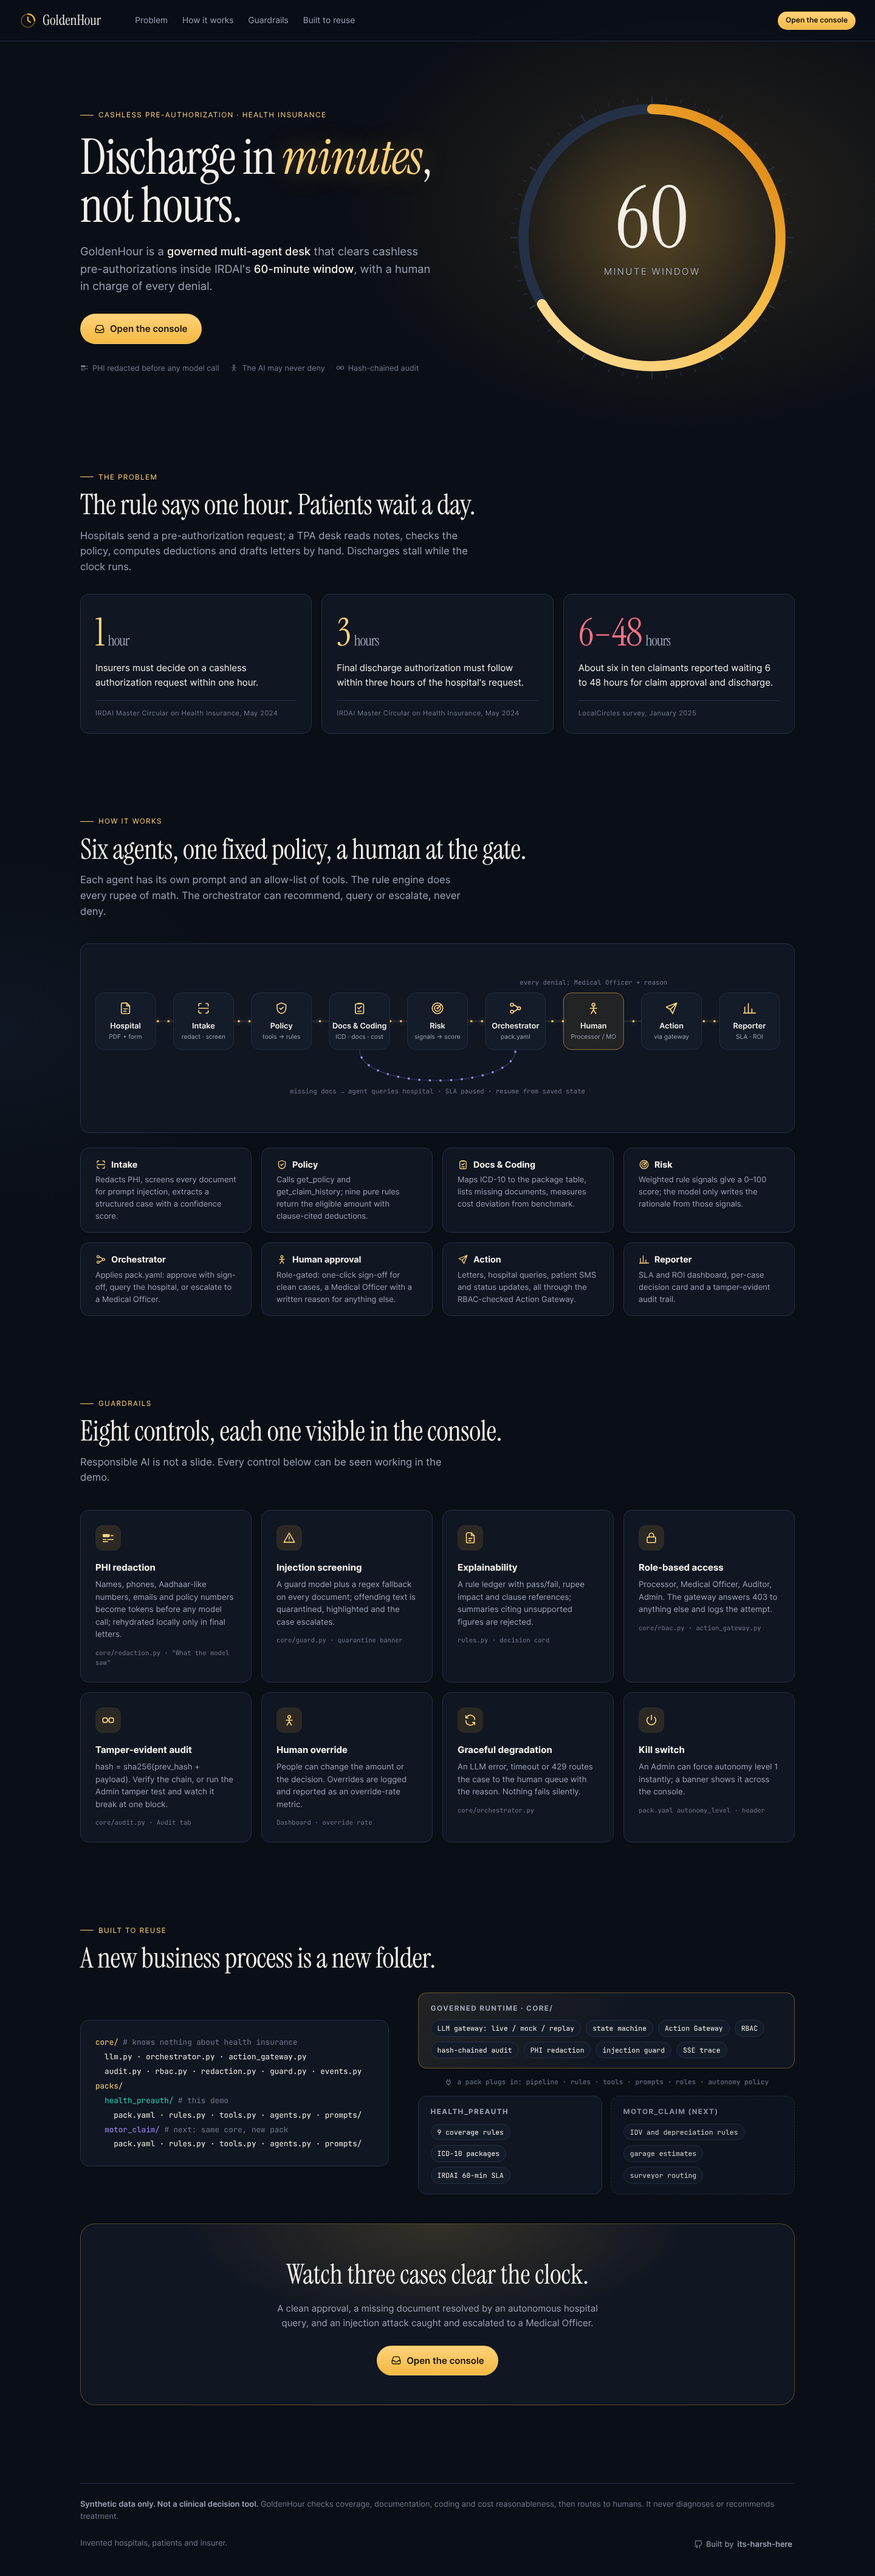
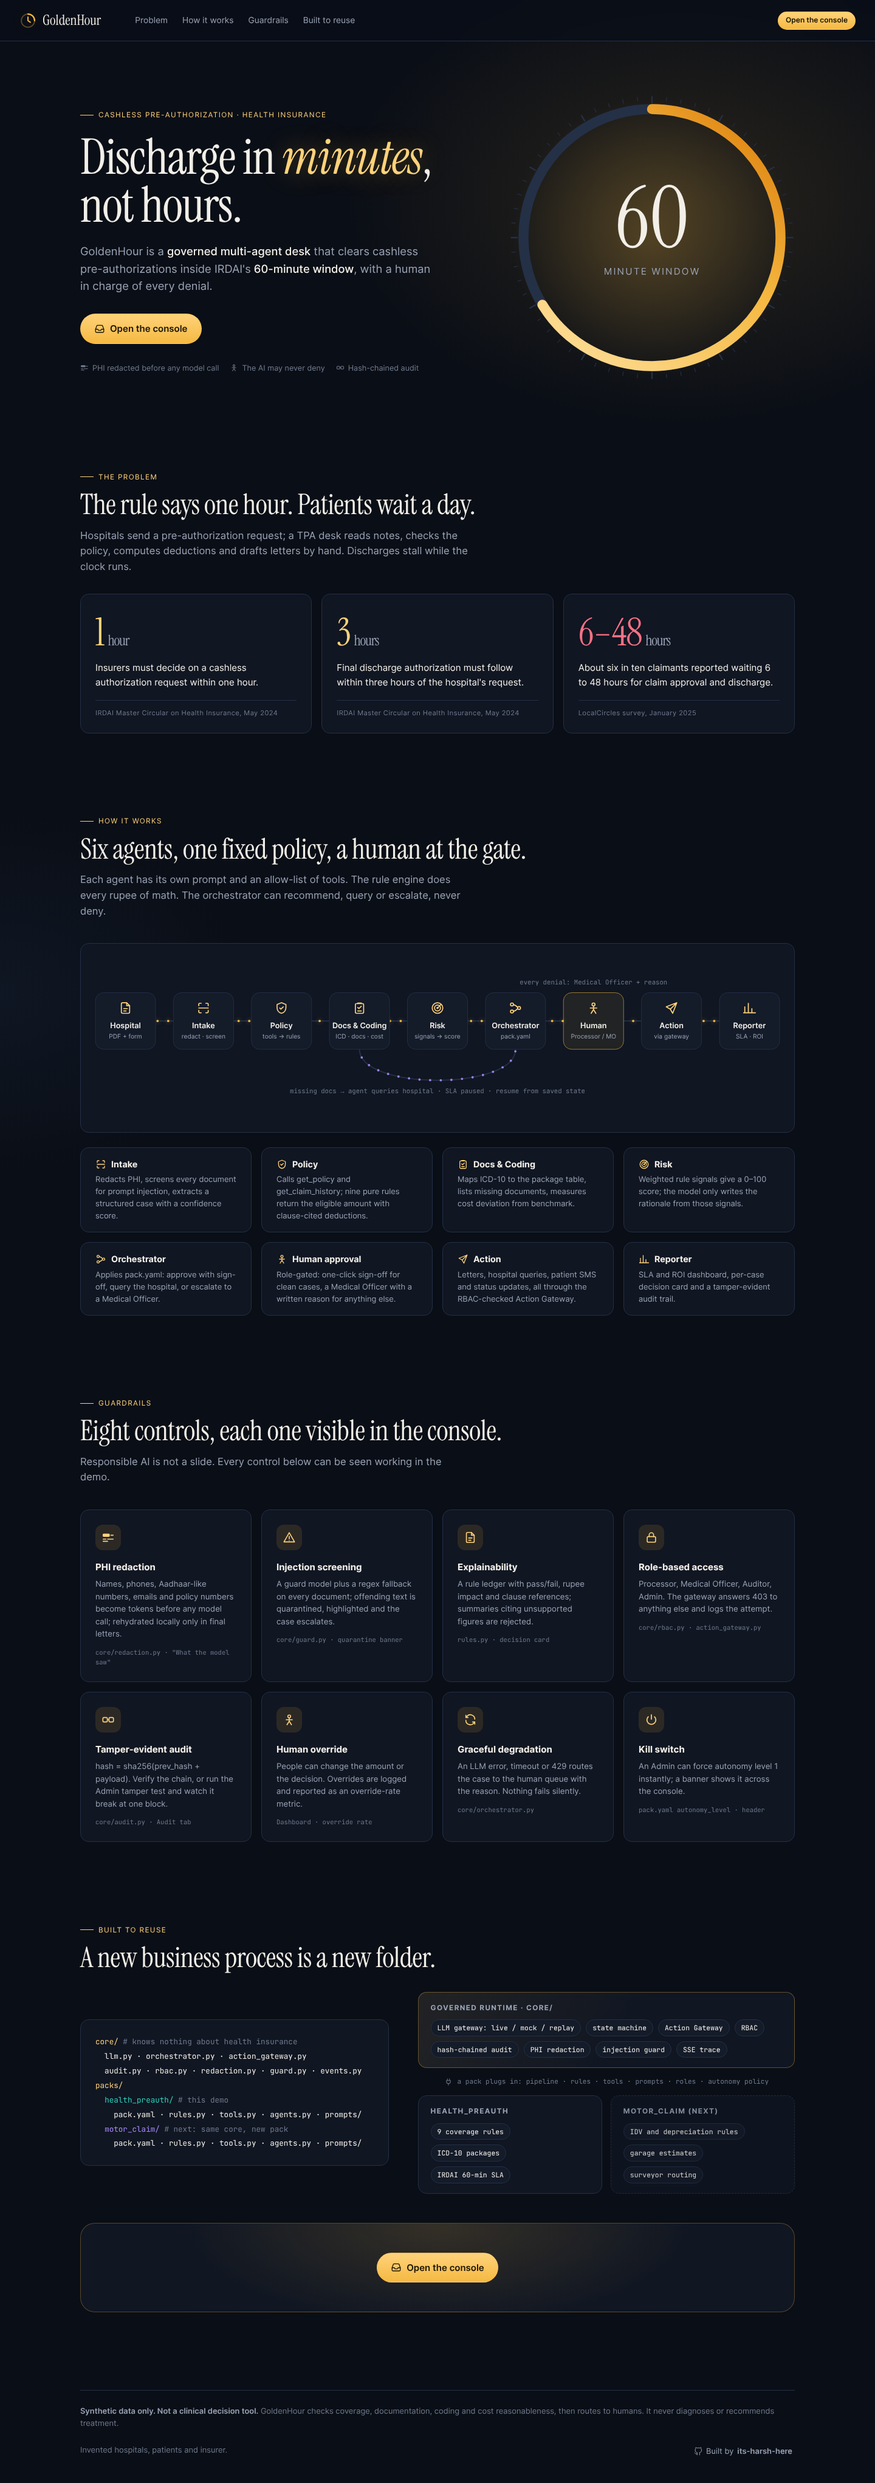
Landing page: drop the "Watch three cases clear the clock" text
The closing band keeps only the "Open the console" button.

diff --git a/app/static/index.html b/app/static/index.html
@@ -125,8 +125,6 @@
         </div>
       </div>
       <div class="cta-band">
-        <h2>Watch three cases clear the clock.</h2>
-        <p>A clean approval, a missing document resolved by an autonomous hospital query, and an injection attack caught and escalated to a Medical Officer.</p>
         <div style="display:flex;gap:12px;justify-content:center;flex-wrap:wrap"><a class="btn primary lg" href="/console"><svg class="icon"><use href="/static/vendor/icons.svg#i-inbox"/></svg>Open the console</a></div>
       </div>
     </section>
